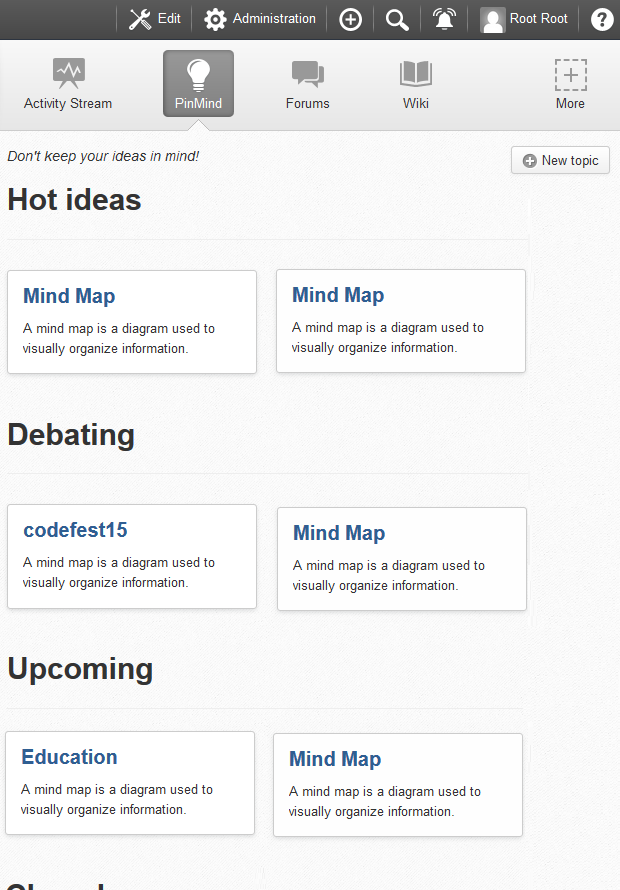
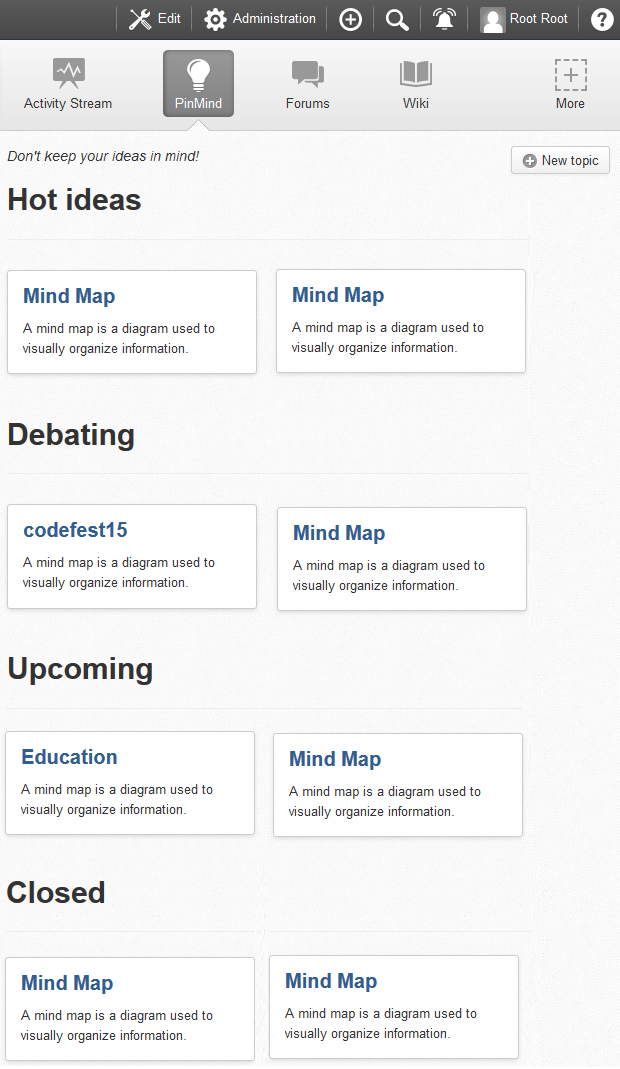
Final docs update

diff --git a/README.md b/README.md
@@ -42,7 +42,7 @@ Nguyễn Thị Lan | DOC
 
 # How to use:
 
-**Step 1**. Create a new space such as “Team G”, after that, the add-on PinMind will be automatically added to this space on the navigation bar as follows:
+**Step 1**. Create a new space such as “Team G”, then, the add-on PinMind will be automatically added to this space on the navigation bar. Click on the PinMind symbol, you will see that topics are categorized by their status as follows:
 
 <img src="images/navigationbar.png" />
 
@@ -75,7 +75,7 @@ Or Remove node to delete the selected node. This node and its children will be d
 
 <img src="images/focusnode.png" />
 
-In addition, this tool provides "hot ideas" function to allow keeping up the debating topics and hot ideas:
+In addition, this add-on provides "hot ideas" function to allow keeping up with the debating topics.
 
 <img src="images/top3-1.png" />
 
